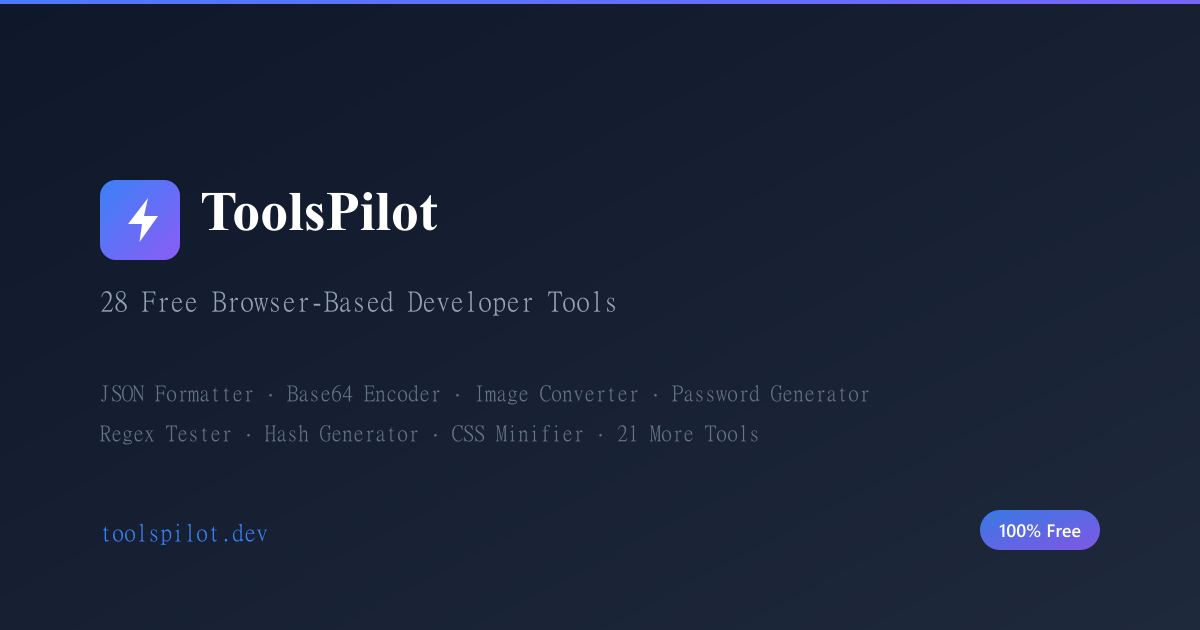
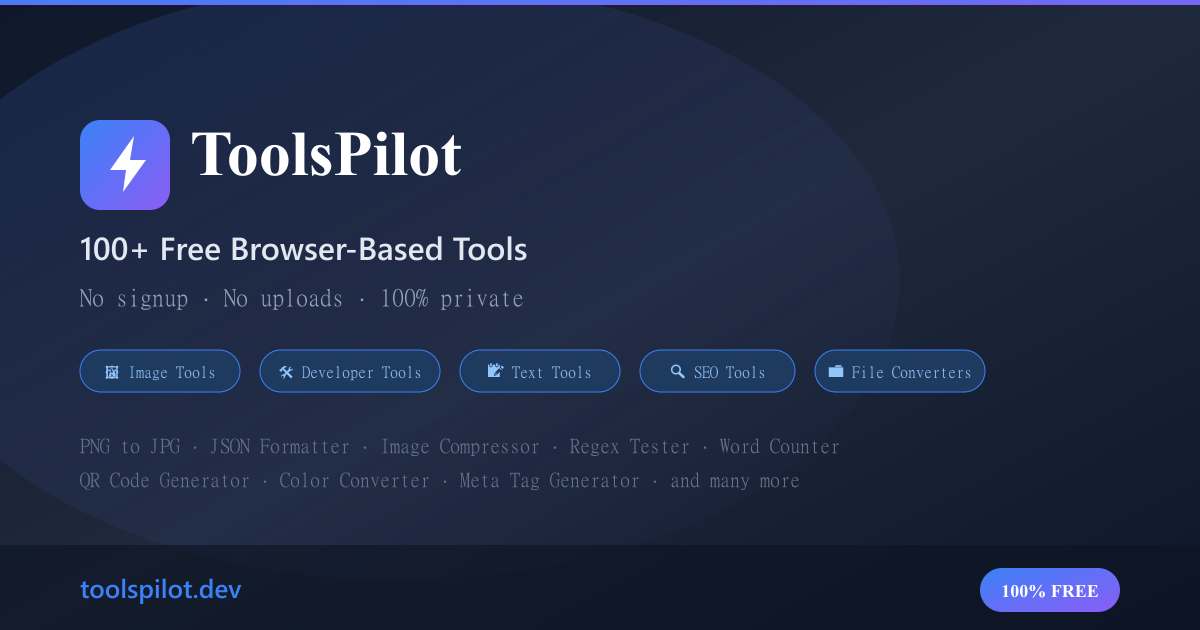
meta: update descriptions, OG image, and tool counts across entire site
- Fix description: '500+ free online tools' → '100+ free browser tools' (accurate)
- Redesign OG image with category pills, popular tools, privacy tagline
- Update hardcoded counts (28, 163, 500+) everywhere
- Fix 'ToolPilot' typo → 'ToolsPilot' in README
- Add keywords: text tools, seo tools, browser tools, no signup tools
- Update Footer, manifest.json, roadmap, Product Hunt gallery, docs

diff --git a/src/lib/analytics.ts b/src/lib/analytics.ts
@@ -1,0 +1,60 @@
+/* ── GA4 custom event helpers ── */
+
+/**
+ * Fire a GA4 custom event. Safe to call server-side (no-ops).
+ */
+export function trackEvent(
+  eventName: string,
+  params?: Record<string, string | number | boolean>,
+) {
+  if (typeof window === "undefined") return;
+  const gtag = (window as unknown as { gtag?: (...args: unknown[]) => void }).gtag;
+  if (!gtag) return;
+  gtag("event", eventName, params);
+}
+
+/* ── Pre-defined events (based on GA4 analytics data) ── */
+
+/** User opened / started using a tool */
+export function trackToolUsed(toolSlug: string, toolName: string) {
+  trackEvent("tool_used", {
+    tool_slug: toolSlug,
+    tool_name: toolName,
+    event_category: "engagement",
+  });
+}
+
+/** User clicked "Calculate" / primary action inside a tool */
+export function trackCalculation(toolSlug: string, toolName: string) {
+  trackEvent("calculation_completed", {
+    tool_slug: toolSlug,
+    tool_name: toolName,
+    event_category: "conversion",
+  });
+}
+
+/** User copied a result to clipboard */
+export function trackCopyResult(toolSlug: string) {
+  trackEvent("copy_result", {
+    tool_slug: toolSlug,
+    event_category: "engagement",
+  });
+}
+
+/** User downloaded a file (PDF, PNG, etc.) */
+export function trackDownload(toolSlug: string, format: string) {
+  trackEvent("file_download", {
+    tool_slug: toolSlug,
+    file_format: format,
+    event_category: "conversion",
+  });
+}
+
+/** User clicked a CTA (affiliate, InvoFlow, etc.) */
+export function trackCTAClick(ctaName: string, destination: string) {
+  trackEvent("cta_click", {
+    cta_name: ctaName,
+    cta_destination: destination,
+    event_category: "conversion",
+  });
+}

diff --git a/src/app/roadmap/page.tsx b/src/app/roadmap/page.tsx
@@ -13,7 +13,7 @@ const phases = [
     status: "completed" as const,
     date: "March 2026",
     items: [
-      { text: "28 free browser-based tools", done: true },
+      { text: "100+ free browser-based tools", done: true },
       { text: "Dark mode support", done: true },
       { text: "Mobile-responsive design", done: true },
       { text: "SEO-optimized pages with FAQ schema", done: true },
@@ -33,7 +33,7 @@ const phases = [
       { text: "Microsoft Clarity heatmaps", done: false },
       { text: "Submit to 10+ tool directories", done: false },
       { text: "Reach 1,000 monthly visitors", done: false },
-      { text: "Get indexed on Google for all 28 tools", done: false },
+      { text: "Get indexed on Google for all tools", done: false },
     ],
   },
   {
@@ -98,7 +98,7 @@ export default function RoadmapPage() {
           Roadmap
         </h1>
         <p className="mx-auto mt-4 max-w-2xl text-lg text-gray-600 dark:text-gray-400">
-          Our plan to build the best free online toolbox. Follow along as we grow from 28 tools to 100+.
+          Our plan to build the best free online toolbox. Follow along as we grow beyond 100+ tools.
         </p>
       </div>
 

diff --git a/src/app/page.tsx b/src/app/page.tsx
@@ -40,6 +40,21 @@ export default function HomePage() {
 
         <AdSlot position="tool-top" className="mb-8" />
 
+        {/* ── Trending Tools — based on actual usage data ── */}
+        <section className="mb-10">
+          <h2 className="text-lg font-bold text-gray-900 dark:text-gray-100">
+            🔥 Trending Tools
+          </h2>
+          <div className="mt-3 grid gap-3 sm:grid-cols-2 lg:grid-cols-4">
+            {["png-to-jpg", "html-encoder", "live-html-preview", "text-diff"]
+              .map((slug) => published.find((t) => t.slug === slug))
+              .filter(Boolean)
+              .map((tool) => (
+                <ToolCard key={tool!.slug} tool={tool!} />
+              ))}
+          </div>
+        </section>
+
         {CATEGORIES.map((cat, idx) => {
           const catTools = published.filter((t) => t.category === cat.id);
           if (catTools.length === 0) return null;

diff --git a/product-hunt-gallery.html b/product-hunt-gallery.html
@@ -61,7 +61,7 @@
   <div class="slide slide-1 active" id="s1">
     <div class="logo">⚡</div>
     <h1><span>ToolsPilot</span></h1>
-    <p>28 free online tools for developers, designers &amp; everyone. Runs 100% in your browser.</p>
+    <p>100+ free online tools for developers, designers &amp; everyone. Runs 100% in your browser.</p>
     <div class="badge">
       <span>🔒 No Uploads</span>
       <span>🚀 Instant Results</span>
@@ -71,7 +71,7 @@
 
   <!-- Slide 2: Tool grid -->
   <div class="slide slide-2" id="s2">
-    <h2>28 Tools. Zero Signups.</h2>
+    <h2>100+ Tools. Zero Signups.</h2>
     <div class="grid">
       <div class="card"><div class="icon">🖼</div><h3>PNG ↔ JPG</h3><p>Image conversion</p></div>
       <div class="card"><div class="icon">📐</div><h3>Image Resizer</h3><p>Any dimension</p></div>

diff --git a/src/components/ToolPageLayout.tsx b/src/components/ToolPageLayout.tsx
@@ -2,6 +2,7 @@ import Link from "next/link";
 import type { ToolDefinition } from "@/lib/types";
 import { getCategoryMeta } from "@/lib/types";
 import { AdSlot } from "./AdSlot";
+import { ToolViewTracker } from "./ToolViewTracker";
 import { getToolBySlug } from "@/lib/registry";
 import { getUsageHint } from "@/lib/usage-hints";
 
@@ -20,6 +21,7 @@ export function ToolPageLayout({ tool, children }: ToolPageLayoutProps) {
 
   return (
     <div className="flex min-h-[calc(100vh-4rem)] flex-col">
+      <ToolViewTracker slug={tool.slug} name={tool.name} />
       {/* Sub-nav bar */}
       <div className="border-b border-gray-100 bg-gray-50/50 dark:border-gray-800 dark:bg-gray-900/50">
         <div className="mx-auto flex max-w-7xl items-center justify-between px-4 py-2 sm:px-6 lg:px-8">

diff --git a/src/app/tools/page.tsx b/src/app/tools/page.tsx
@@ -7,7 +7,7 @@ import { AdSlot } from "@/components/AdSlot";
 export const metadata: Metadata = {
   title: "All Free Online Tools — Developer, Image, Text & SEO Tools | ToolsPilot",
   description:
-    "Browse 163 free online tools: JSON formatter, image converter, PDF tools, calculators, SEO tools, and more. No signup required. 100% browser-based.",
+    "Browse 100+ free online tools: JSON formatter, image converter, text utilities, calculators, SEO tools, and more. No signup required. 100% browser-based.",
   keywords:
     "free online tools, developer tools, image converter, json formatter, pdf converter, calculator online, text tools, seo tools, password generator, qr code generator",
 };

diff --git a/src/lib/config.ts b/src/lib/config.ts
@@ -5,7 +5,7 @@ export const siteConfig = {
   name: SITE_NAME,
   url: SITE_URL,
   description:
-    "500+ free online tools for developers, designers and marketers. Convert files, format code, generate text and more — all in your browser.",
+    "100+ free browser tools for developers, designers & marketers. Image converters, code formatters, text utilities, SEO analyzers & calculators — no signup, no uploads, 100% private.",
   ogImage: `${SITE_URL}/og-default.png`,
   twitterHandle: "@toolspilot",
   locale: "en_US",

diff --git a/src/hooks/useTrackToolView.ts b/src/hooks/useTrackToolView.ts
@@ -1,0 +1,17 @@
+"use client";
+
+import { useEffect, useRef } from "react";
+import { trackToolUsed } from "@/lib/analytics";
+
+/**
+ * Track a single "tool_used" event per page session.
+ * Drop into any tool page / client component.
+ */
+export function useTrackToolView(slug: string, name: string) {
+  const firedRef = useRef(false);
+  useEffect(() => {
+    if (firedRef.current) return;
+    firedRef.current = true;
+    trackToolUsed(slug, name);
+  }, [slug, name]);
+}

diff --git a/src/components/Footer.tsx b/src/components/Footer.tsx
@@ -14,7 +14,7 @@ export function Footer() {
               {siteConfig.name}
             </Link>
             <p className="mt-2 text-sm text-gray-500 dark:text-gray-400">
-              Free online tools for developers, designers &amp; marketers.
+              100+ free browser tools for developers, designers &amp; marketers.
             </p>
           </div>
 

diff --git a/src/app/layout.tsx b/src/app/layout.tsx
@@ -26,6 +26,10 @@ export const metadata: Metadata = {
     "image converter",
     "json formatter",
     "file converter",
+    "text tools",
+    "seo tools",
+    "browser tools",
+    "no signup tools",
   ],
   authors: [{ name: siteConfig.name }],
   openGraph: {

diff --git a/src/components/ToolViewTracker.tsx b/src/components/ToolViewTracker.tsx
@@ -1,0 +1,8 @@
+"use client";
+
+import { useTrackToolView } from "@/hooks/useTrackToolView";
+
+export function ToolViewTracker({ slug, name }: { slug: string; name: string }) {
+  useTrackToolView(slug, name);
+  return null;
+}

diff --git a/docs/ROADMAP.md b/docs/ROADMAP.md
@@ -6,7 +6,7 @@
 
 **Goal**: Launch with 10 high-value tools, SEO foundation, and AdSense.
 
-### Tools (28 built — 10 target exceeded)
+### Tools (113 built — far exceeded targets)
 1. ✅ JSON Formatter & Validator
 2. ✅ PNG to JPG Converter
 3. ✅ Word Counter
@@ -58,7 +58,7 @@
 - [ ] Submit sitemap to Bing Webmaster Tools
 
 ### SEO
-- [x] Per-tool SEO data (28/28 tools — optimized titles, descriptions, FAQ schema, content sections)
+- [x] Per-tool SEO data (all tools — optimized titles, descriptions, FAQ schema, content sections)
 - [x] Category landing pages with dynamic content (/categories/[category])
 - [x] Open Graph + Twitter Card meta on all pages
 - [x] Canonical URLs on all pages
@@ -104,7 +104,7 @@ Text to Binary, Fancy Text Generator
 
 ### SEO
 - [x] Category landing pages with unique content
-- [x] Structured FAQ schema (all 28 tools)
+- [x] Structured FAQ schema (all tools)
 - [ ] Programmatic internal linking
 - [ ] 20+ blog posts
 - [ ] Google Discover optimization
